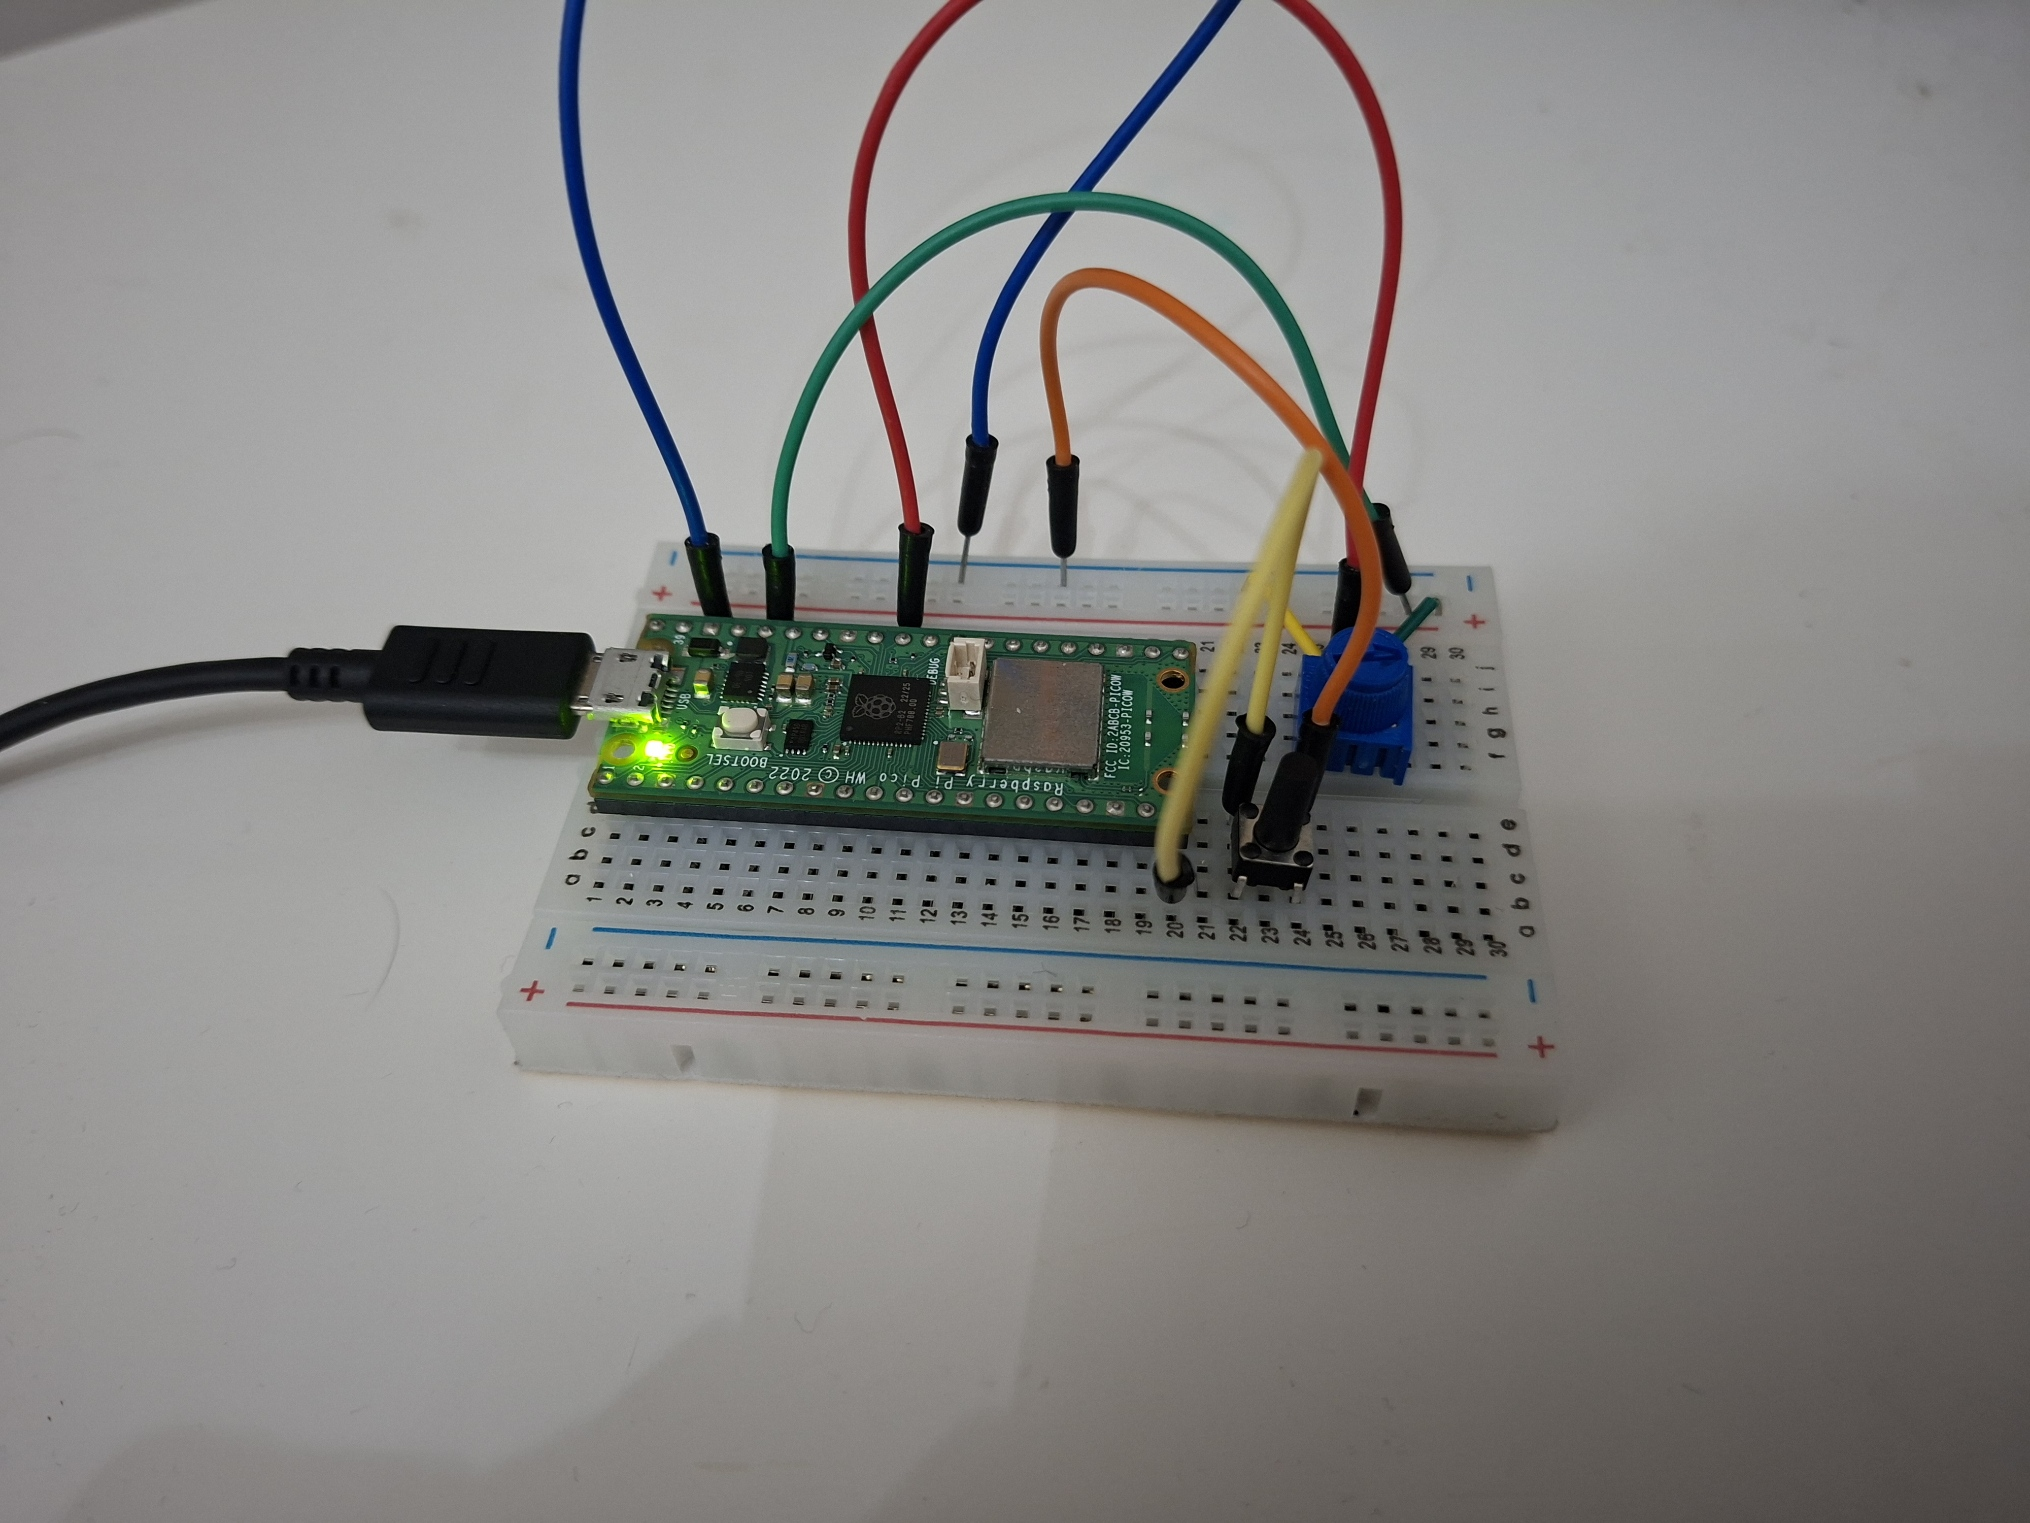
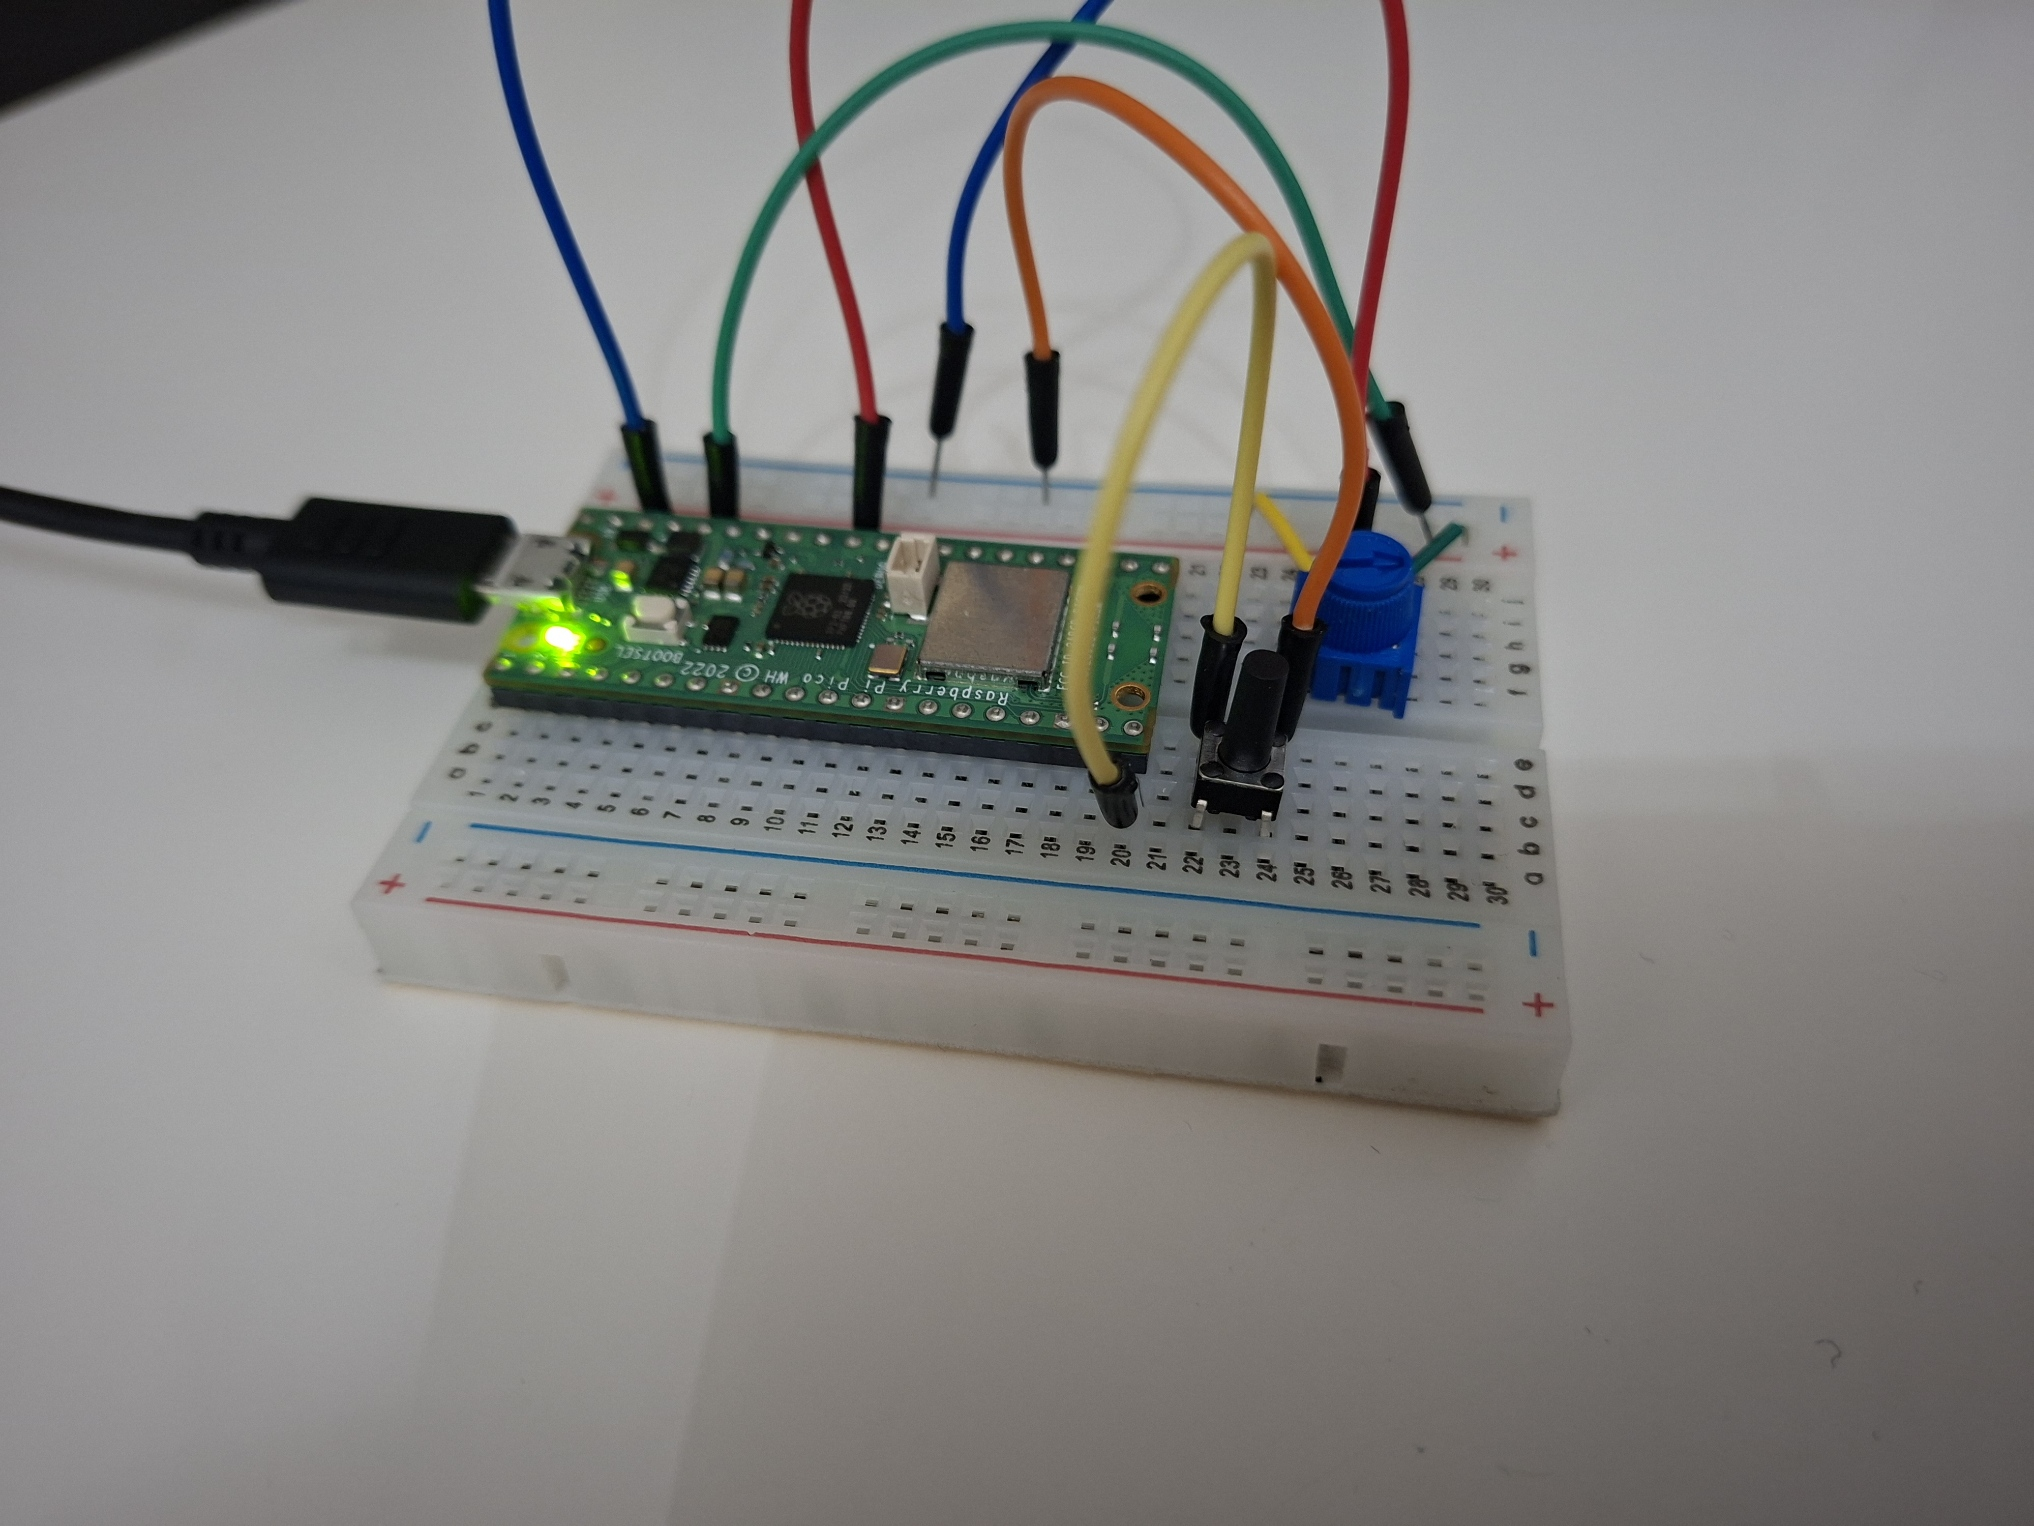
Added new photo

Changed region(s): [[0.0, 0.0, 1.0, 0.7715], [0.0, 0.0, 0.1552, 0.0926], [0.9931, 0.0309, 1.0, 0.0617]]

diff --git a/fyp-controller-code.py b/fyp-controller-code.py
@@ -7,6 +7,8 @@ pico_led.on()
 dial = Pot(26)
 butt = Button(15)
 
+
+#this function is used to determine the action choice based on the knob value
 def knob_pick():
     if dial.value < 0.3:
         print("PHONE HELP")
